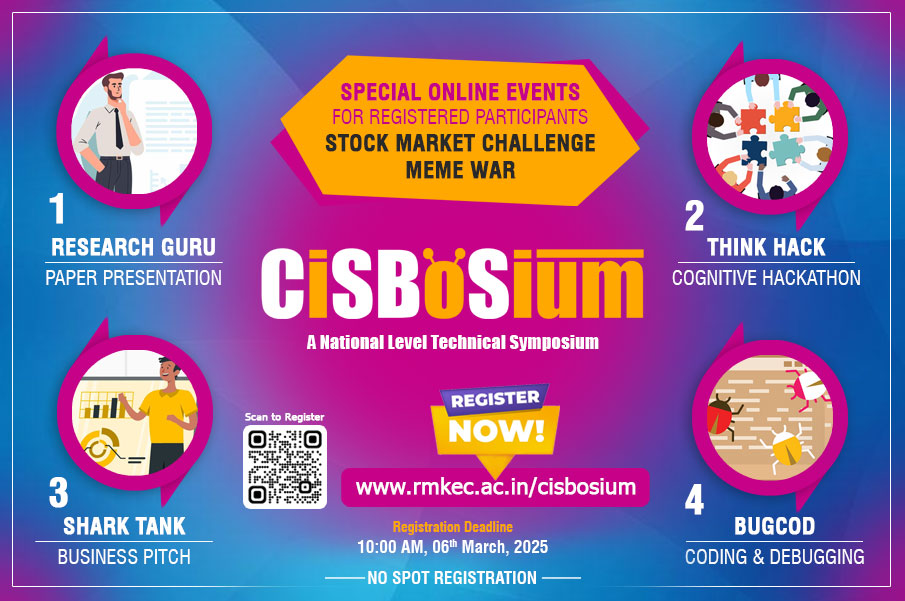
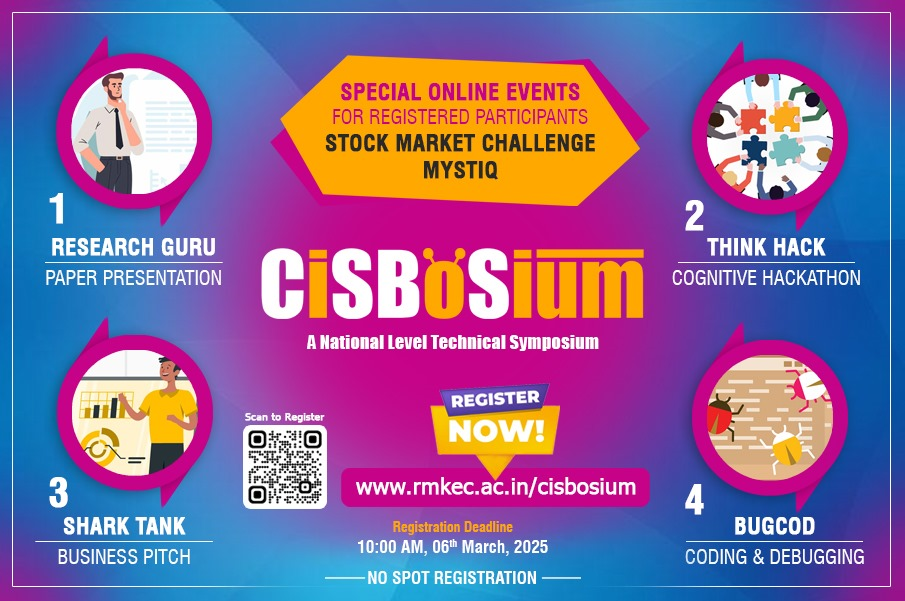
update

diff --git a/app/page.tsx b/app/page.tsx
@@ -7,7 +7,7 @@ import { motion } from "framer-motion"
 import { Button } from "@/components/ui/button"
 import { Card, CardContent, CardDescription, CardFooter, CardHeader, CardTitle } from "@/components/ui/card"
 import { Alert, AlertDescription, AlertTitle } from "@/components/ui/alert"
-import { CalendarDays, Users, GraduationCap, Presentation, Code, BrainCircuit, Coins, Lock } from 'lucide-react'
+import { ArrowRight, CalendarDays, Users, GraduationCap, Presentation, Code, BrainCircuit, Coins, Lock } from 'lucide-react'
 import {
   Dialog,
   DialogContent,
@@ -86,11 +86,11 @@ const events = [
   },
   {
     title: "Think Hack",
-    description: "Solve complex problems using AI and machine learning techniques.",
+    description: "Crack the code, race the clock—to seize the Ultimate Innovator title!.",
     image: "/th.png",
     coordinators: "Siva, Sharvesh Guru, Nivetha",
     icon: "BrainCircuit",
-    details: "Put your AI and machine learning skills to the test in this intensive hackathon. Work on real-world problems and develop innovative solutions using cutting-edge technologies.",
+    details: "Put your skills to the test in this high-energy hackathon!  Compete, create, and showcase your problem-solving abilities in an unforgettable experience.",
     rules: [
       "Teams of 1-3 members allowed.",
       "Participants should bring their own laptops.",
@@ -117,7 +117,7 @@ const events = [
     registrationLink: "https://docs.google.com/forms/d/e/1FAIpQLSe-JlAhu5uAHSqg4kORVPhGeOe8M2_8X6_Fd40YftGZfbKIfQ/viewform?usp=header"
   },
   {
-    title: "MystIO",
+    title: "MystIQ",
     description: "Unravel cryptic clues and uncover a hidden secret!",
     image: "/m.jpg",
     coordinators: "Sarvesh, joilin, Rithu Varshini",
@@ -553,8 +553,8 @@ export default function Home() {
             <div className="bg-white/80 dark:bg-gray-900/80 backdrop-blur-sm border-2 border-violet-100 dark:border-violet-900 p-6 rounded-lg">
               <h3 className="text-lg font-semibold mb-4 text-violet-700">Student Coordinators</h3>
               <div className="space-y-2 text-gray-600">
-                <p>Mr. Sheegan Sri G M : +91 88259 20804 </p>
-                <p>Mr. SIVA R : +91 93606 61755 </p>
+                <p>Mr. Sheegan Sri G M </p>
+                <p>Mr. SIVA R </p>
               </div>
             </div>
           </div>
@@ -624,4 +624,3 @@ export default function Home() {
     </div>
   )
 }
-

diff --git a/app/events/page.tsx b/app/events/page.tsx
@@ -64,11 +64,11 @@ const events = [
   },
   {
     title: "Think Hack",
-    description: "Solve complex problems using AI and machine learning techniques.",
+    description: "Crack the code, race the clock—to seize the Ultimate Innovator title!.",
     image: "/th.png",
     coordinators: "Siva, Sharvesh Guru, Nivetha",
     icon: "BrainCircuit",
-    details: "Put your AI and machine learning skills to the test in this intensive hackathon. Work on real-world problems and develop innovative solutions using cutting-edge technologies.",
+    details: "Put your skills to the test in this high-energy hackathon!  Compete, create, and showcase your problem-solving abilities in an unforgettable experience.",
     rules: [
       "Teams of 1-3 members allowed.",
       "Participants should bring their own laptops.",
@@ -95,7 +95,7 @@ const events = [
     registrationLink: "https://docs.google.com/forms/d/e/1FAIpQLSe-JlAhu5uAHSqg4kORVPhGeOe8M2_8X6_Fd40YftGZfbKIfQ/viewform?usp=header"
   },
   {
-    title: "MystIO",
+    title: "MystIQ",
     description: "Unravel cryptic clues and uncover a hidden secret!",
     image: "/m.jpg",
     coordinators: "Sarvesh, joilin, Rithu Varshini",
